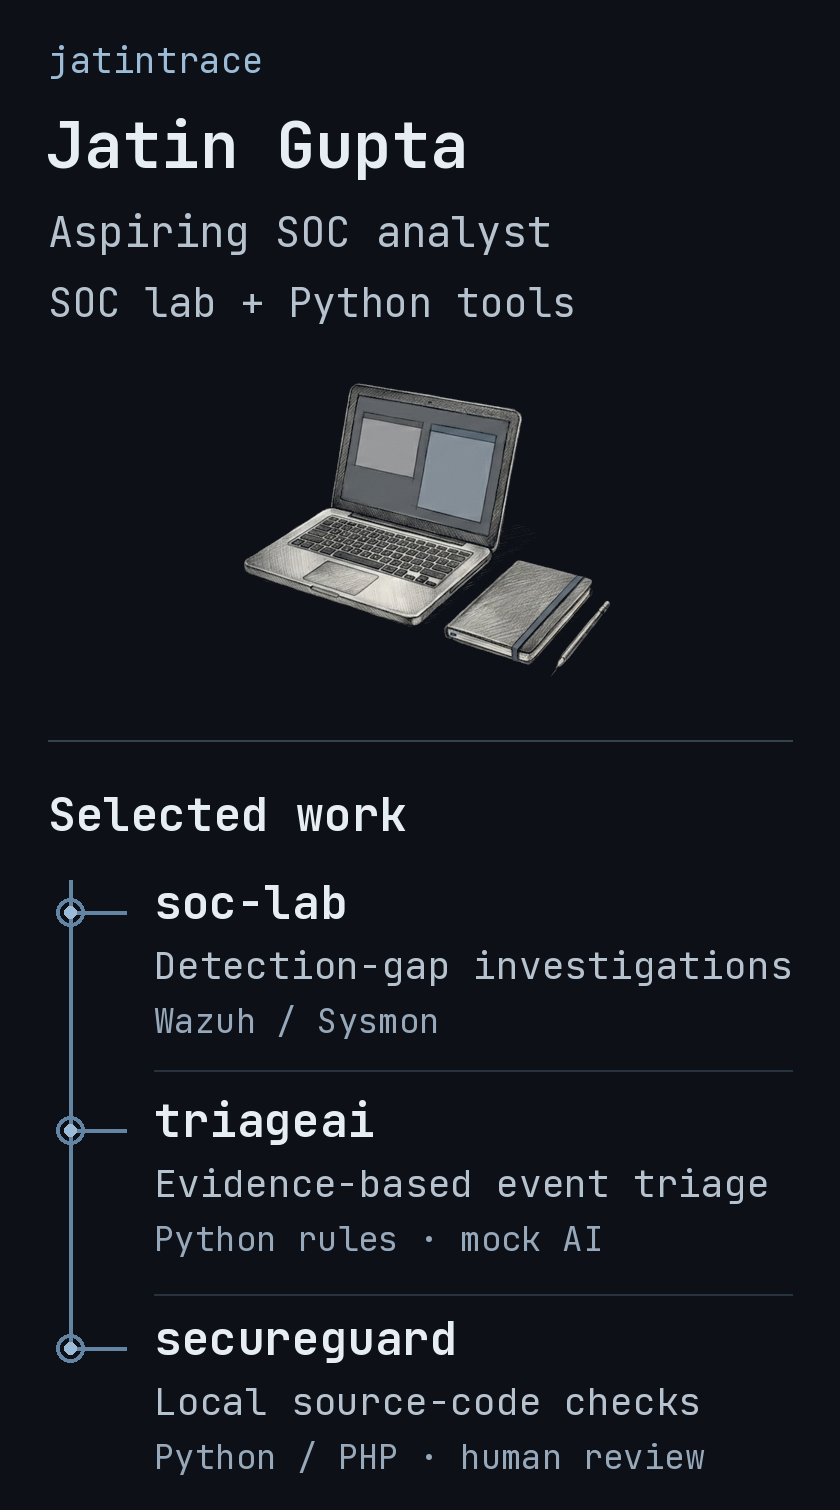
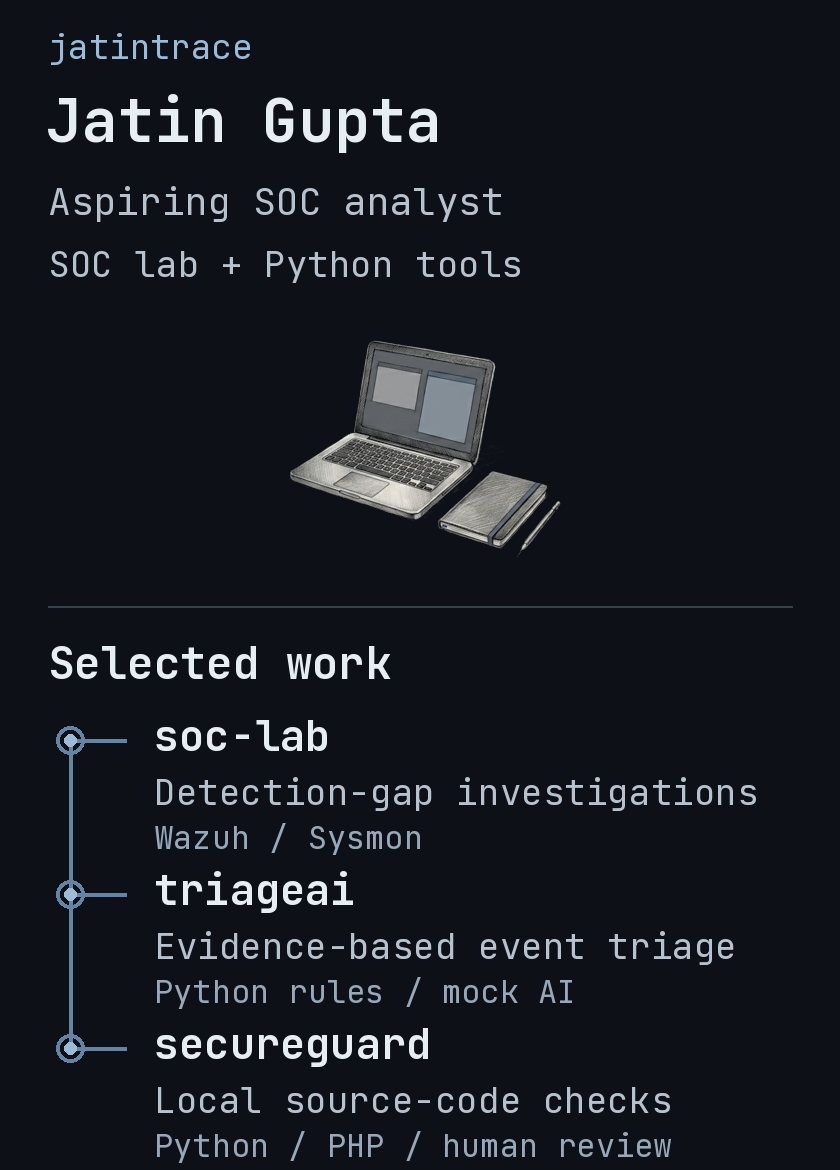
Add files via upload

diff --git a/README.md b/README.md
@@ -1,6 +1,8 @@
 <picture>
-  <source media="(max-width: 600px)" srcset="assets/profile-mobile.png">
-  <img src="assets/profile.png" alt="Jatin Gupta, jatintrace, aspiring SOC analyst. Conceptual generated notebook illustration, not actual lab evidence. Selected work: soc-lab for Wazuh/Sysmon investigations; triageai for offline triage with a mock AI provider; secureguard for Python/PHP source checks.">
+  <source media="(prefers-reduced-motion: reduce) and (max-width: 600px)" srcset="assets/profile-mobile.png">
+  <source media="(prefers-reduced-motion: reduce)" srcset="assets/profile.png">
+  <source media="(max-width: 600px)" srcset="assets/profile-mobile.gif">
+  <img src="assets/profile.gif" alt="Jatin Gupta, jatintrace, aspiring SOC analyst. A brief reveal of selected work: soc-lab, triageai, and secureguard. Conceptual laptop illustration, not actual lab evidence. Repository links are below.">
 </picture>
 
 [soc-lab](https://github.com/jatintrace/soc-lab) ·
